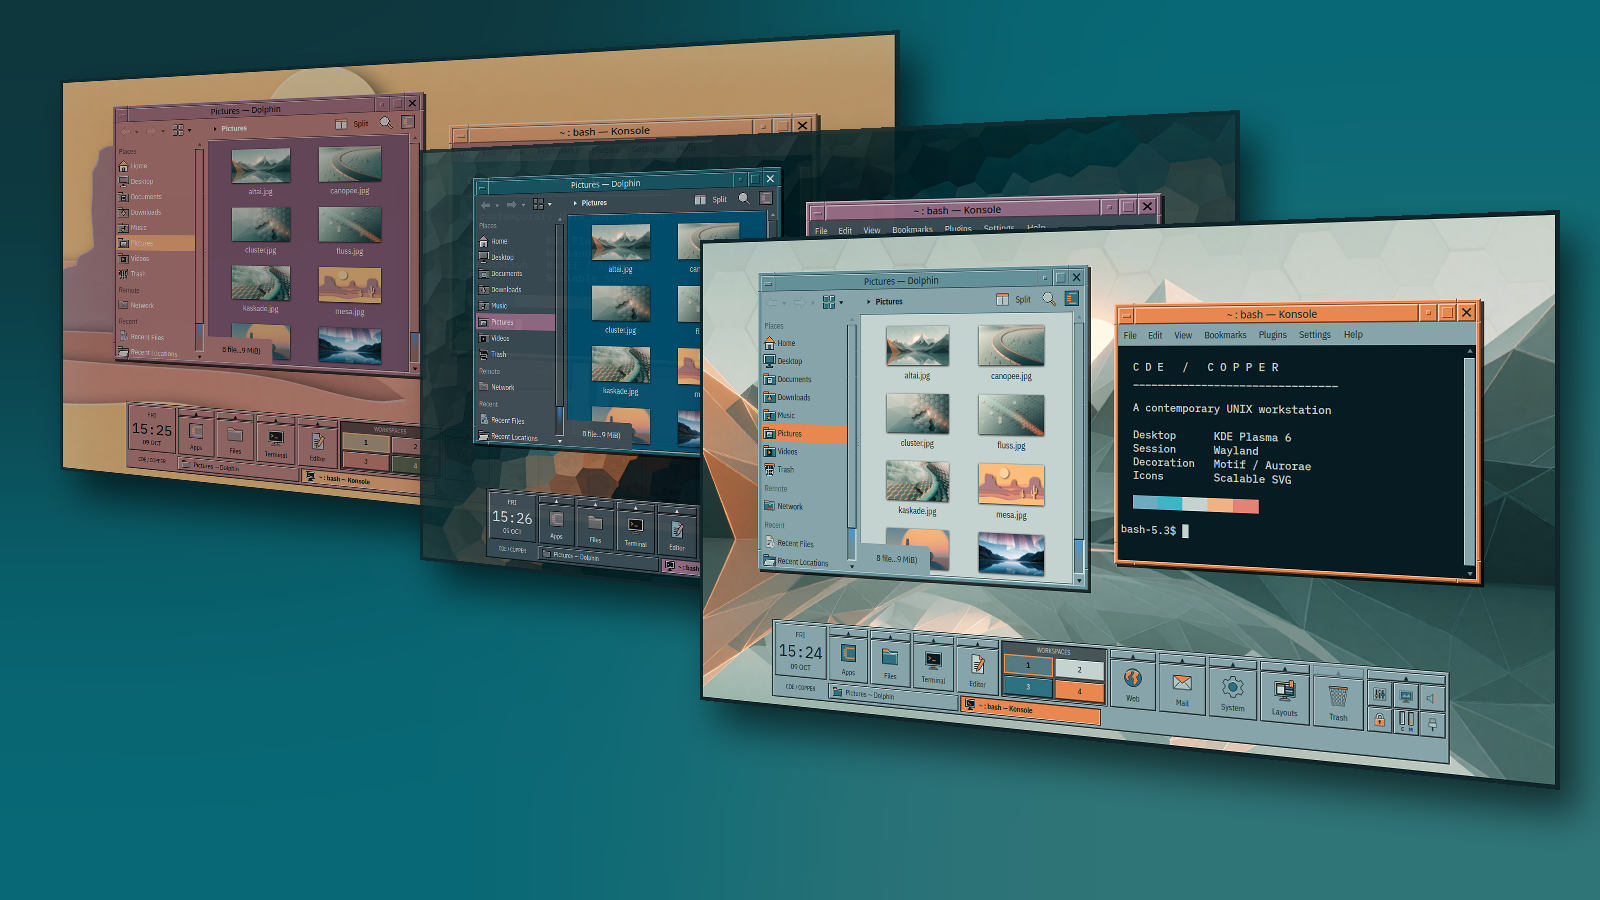
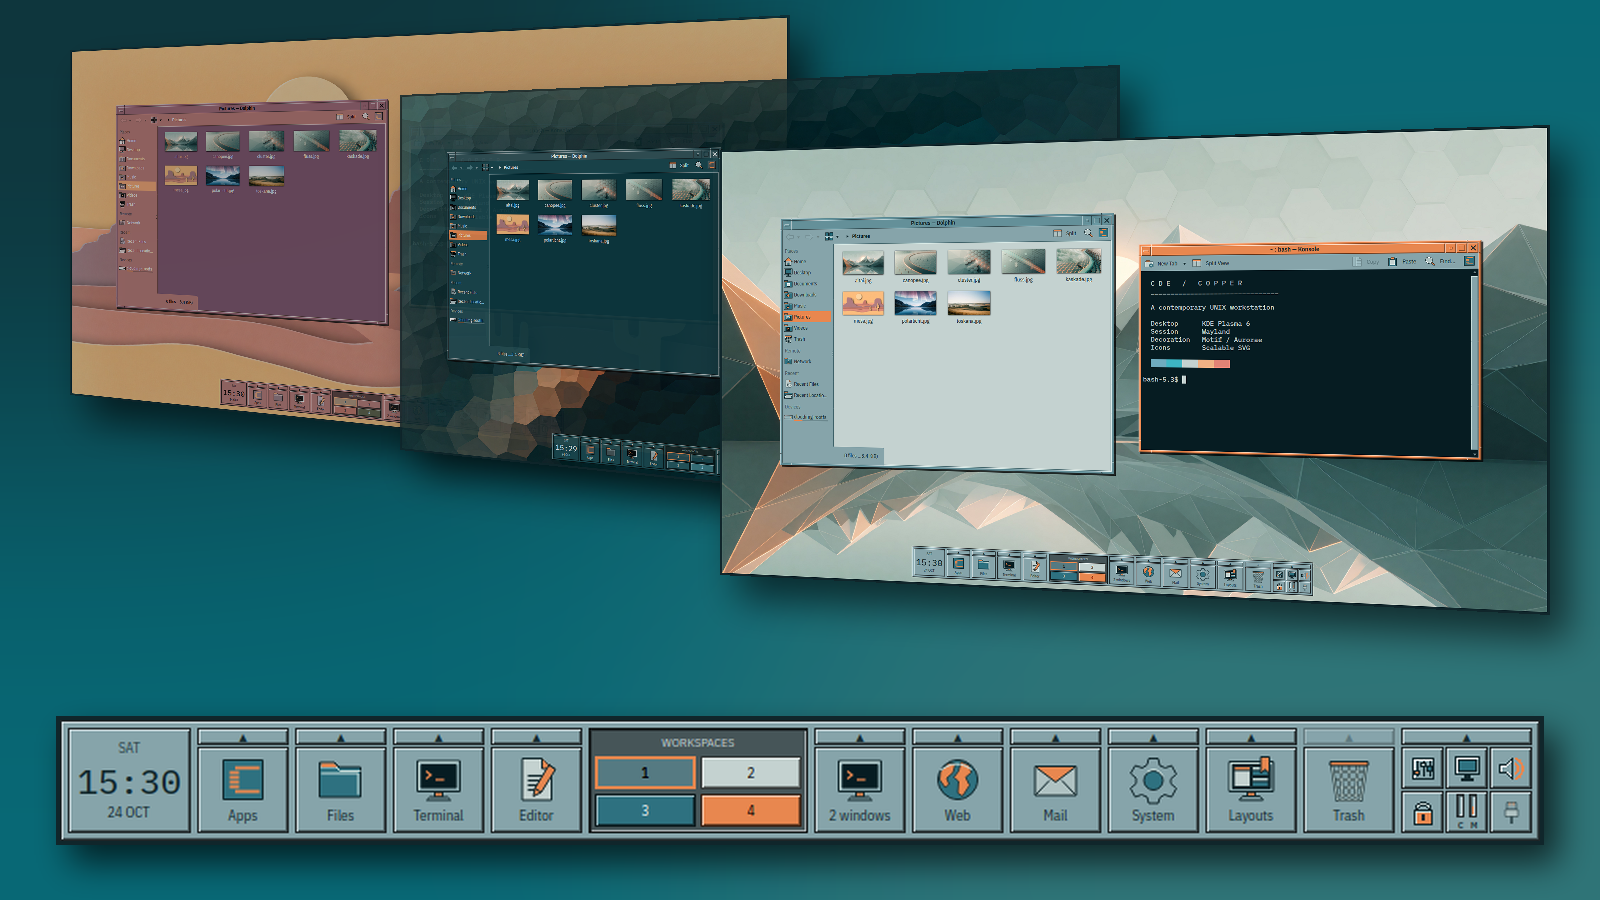
CDE Copper: Store-Titelbild mit vergrößerter Konsole
store-pictures.py overview nimmt optional den Kasten der Konsole im vorderen
Bild und legt sie vergrößert unter die drei Desktops; overview.png neu,
TESTING.md beschreibt die Aufnahmen.

diff --git a/CDE/tools/store-pictures.py b/CDE/tools/store-pictures.py
@@ -9,8 +9,10 @@
         `zoom` does (SCALE default 3); --shared gives all frames one palette and
         leaves the pixels unchanged from the frame before transparent, so that
         a series on the same desktop stores only what changes
-    store-pictures.py overview OUT.png BACK.png MID.png FRONT.png
-        three desktops in perspective on a backdrop, the store's hero picture
+    store-pictures.py overview OUT.png BACK.png MID.png FRONT.png [X0,Y0,X1,Y1]
+        three desktops in perspective on a backdrop, the store's hero picture;
+        with the console's box in FRONT the desktops move up and the console
+        lies enlarged and upright across the bottom, legible in the thumbnail
     store-pictures.py zoom OUT.png IN.png X0 Y0 X1 Y1 [SCALE]
         the frame with the given part of it enlarged (SCALE, default 3) in a
         bevelled inset at the top right, for the clock's styles
@@ -115,7 +117,7 @@ def frame(im, border=6):
     out.paste(im.convert("RGBA"), (border, border))
     return out
 
-def overview(out, back, mid, front):
+def overview(out, back, mid, front, console=None):
     W, H = 1600, 900
     bg = Image.new("RGB", (W, H), TEAL)
     d = ImageDraw.Draw(bg)
@@ -128,6 +130,10 @@ def overview(out, back, mid, front):
     layers = [(back, [(60, 80), (900, 30), (900, 560), (60, 470)], 0.72),
               (mid, [(420, 150), (1240, 110), (1240, 650), (420, 560)], 0.86),
               (front, [(700, 240), (1560, 210), (1560, 790), (700, 700)], 1.0)]
+    if console:
+        layers = [(back, [(70, 50), (790, 15), (790, 470), (70, 395)], 0.72),
+                  (mid, [(400, 95), (1120, 65), (1120, 525), (400, 450)], 0.86),
+                  (front, [(720, 150), (1550, 125), (1550, 615), (720, 575)], 1.0)]
     for path, quad, alpha in layers:
         im = frame(Image.open(path).convert("RGB"))
         layer = warp(im, quad, (W, H))
@@ -139,6 +145,17 @@ def overview(out, back, mid, front):
         if alpha < 1:
             layer.putalpha(layer.split()[3].point(lambda a: int(a * alpha)))
         canvas = Image.alpha_composite(canvas, layer)
+    if console:
+        # The console of the front desktop, as wide as the picture allows,
+        # in a thin dark frame with the same shadow as the desktops.
+        part = Image.open(front).convert("RGB").crop(console)
+        width = W - 2 * 60
+        part = frame(part.resize((width, round(part.height * width / part.width)), Image.Resampling.LANCZOS), 4)
+        x, y = (W - part.width) // 2, H - part.height - 55
+        shadow = Image.new("RGBA", (W, H), (0, 0, 0, 0))
+        shadow.paste((0, 0, 0, 170), (x + 14, y + 18, x + part.width + 14, y + part.height + 18))
+        canvas = Image.alpha_composite(canvas, shadow.filter(ImageFilter.GaussianBlur(16)))
+        canvas.paste(part, (x, y))
     canvas.convert("RGB").save(out, quality=92)
     print(out, canvas.size)
 
@@ -201,7 +218,7 @@ def main():
     if what == "gif":
         gif(out, rest)
     elif what == "overview":
-        overview(out, *rest[:3])
+        overview(out, *rest[:3], tuple(int(v) for v in rest[3].split(",")) if len(rest) > 3 else None)
     elif what == "zoom":
         zoom(out, rest[0], *[int(v) for v in rest[1:5]], int(rest[5]) if len(rest) > 5 else 3)
     elif what == "logo":

diff --git a/CDE/TESTING.md b/CDE/TESTING.md
@@ -1336,6 +1336,19 @@ check` plausible (Kvantum is missing on 245k); the two console changes
 installed and used. Not checked: the VMs (`plasma-lab`, `ubuntu-lab`),
 screenshots, console edges, sizes and palettes, X11.
 
+## Store hero picture with a slimmer console (2026-10-24)
+
+The console hardly showed in `overview.png` and its thumbnail. New frames
+in `ubuntu-lab` (Plasma 6.6, Wayland, 1920×1080, English session, 1.1.0
+from `dist/`, Kvantum 1.1.5 from the Ubuntu archive): the console with
+`consoleScale` 0.85 and the window tile on the right instead of the strip
+(77 px instead of 118), Dolphin on ~/Pictures and Konsole with
+`tests/terminal-demo.sh` placed by `tests/arrange.js`; Arizona with Mesa,
+CopperNight with Kristall, Copper with Altai. `store-pictures.py overview`
+takes the console's box in the front frame (491,991,1429,1068): the three
+desktops move up and the console lies enlarged across the bottom. Looked at
+in full and at 320×180: clock, tiles and workspaces legible.
+
 ## Release 1.1.1: launchers without systemd (2026-10-25)
 
 Report from a Gentoo user: every console tile except "Apps" did nothing,
